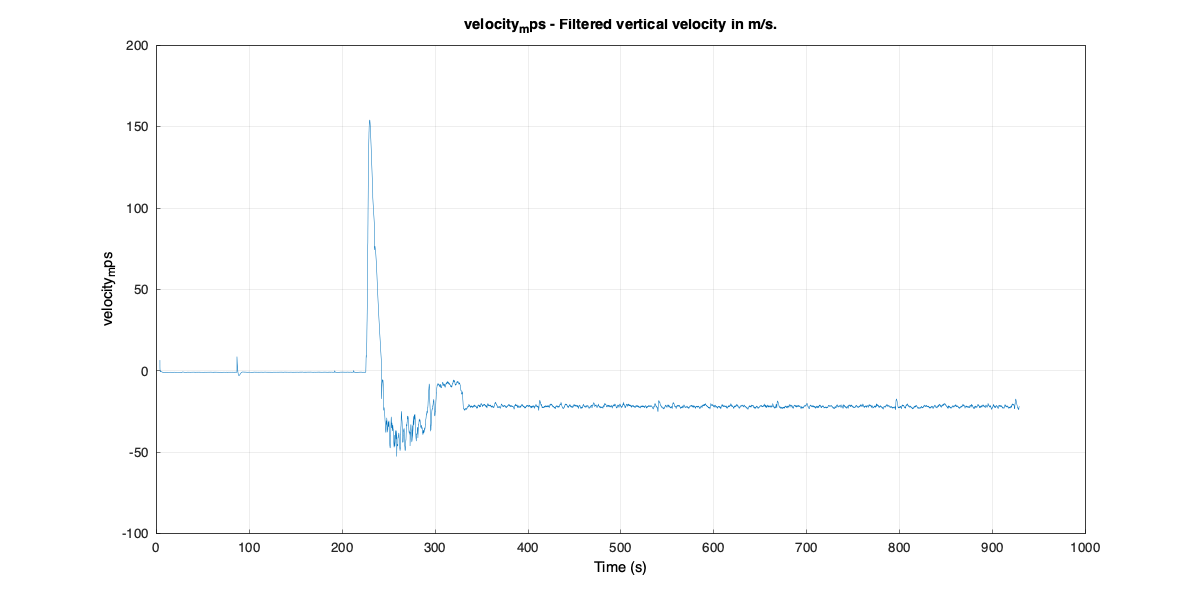
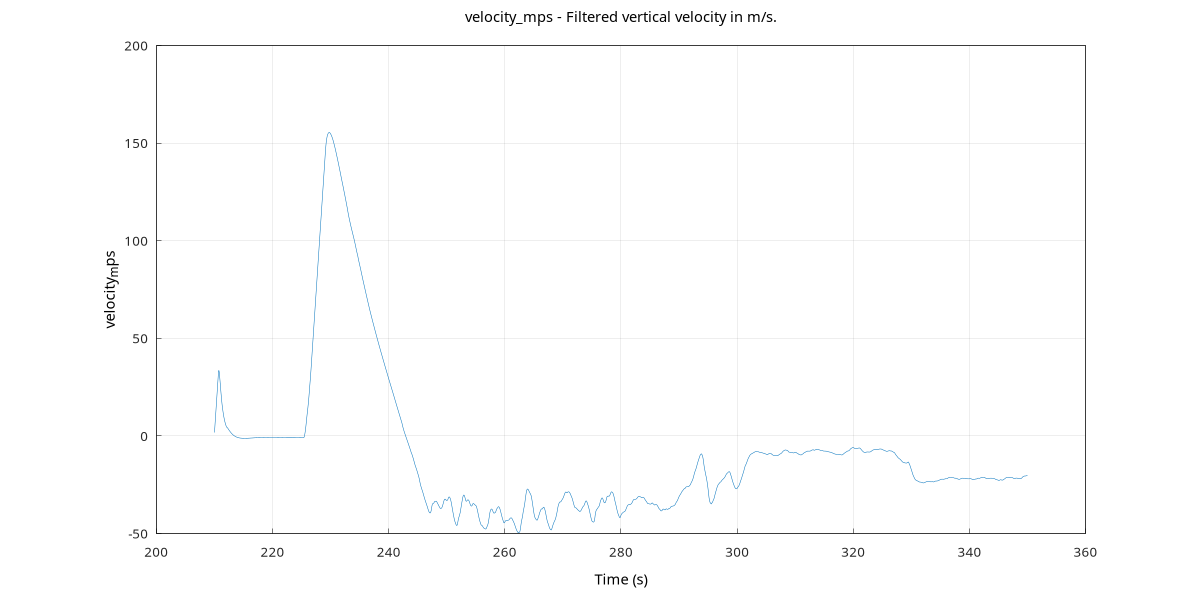
Better state apogee determination

diff --git a/standalone-c/main.cpp b/standalone-c/main.cpp
@@ -1038,6 +1038,8 @@ void RenderMatplotGraph(const SampleValueInfo &info, const std::vector<std::pair
         auto ax = fig->current_axes();
         ax->plot(times, values);
         ax->xlabel("Time (s)");
+        // Keep metric names literal (e.g. accel_icm_z) instead of gnuplot enhanced-text parsing.
+        ax->title_enhanced(false);
         ax->ylabel(info.cliName);
         ax->title(std::string(info.cliName) + " - " + info.description);
         ax->grid(true);
